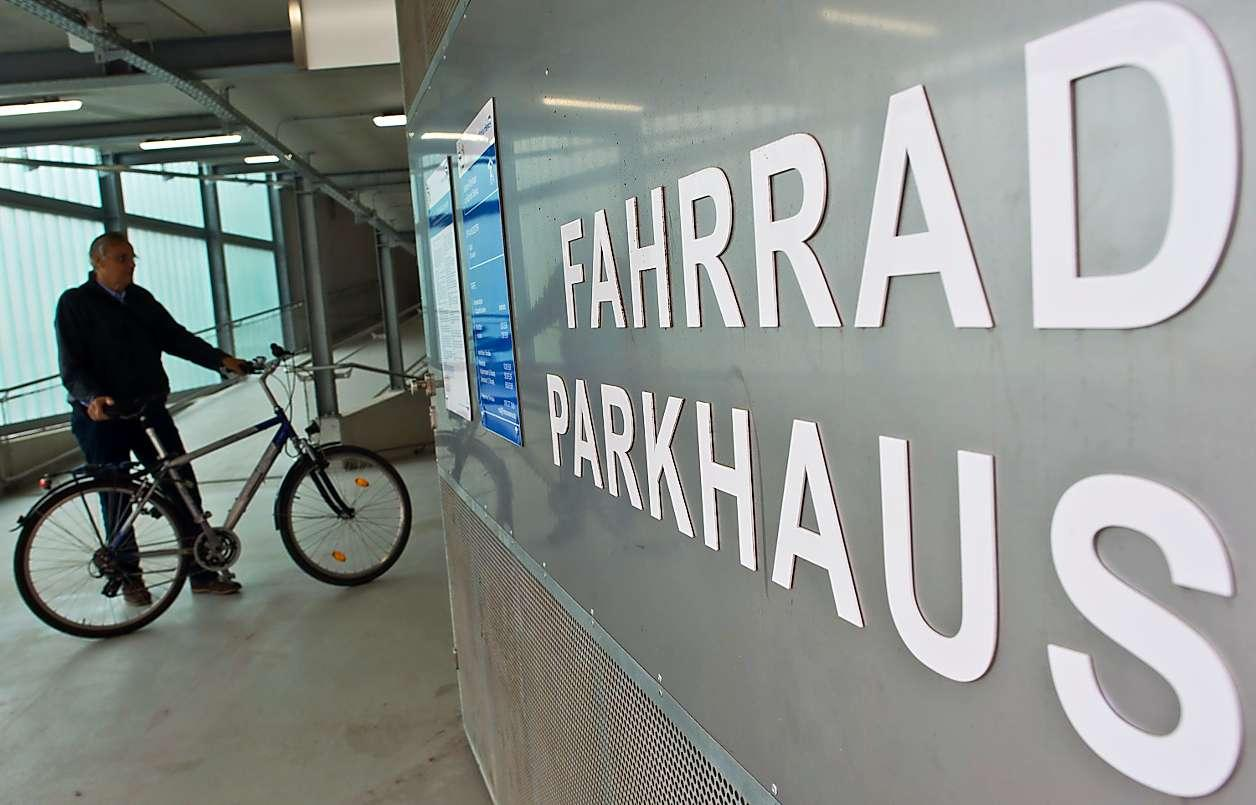
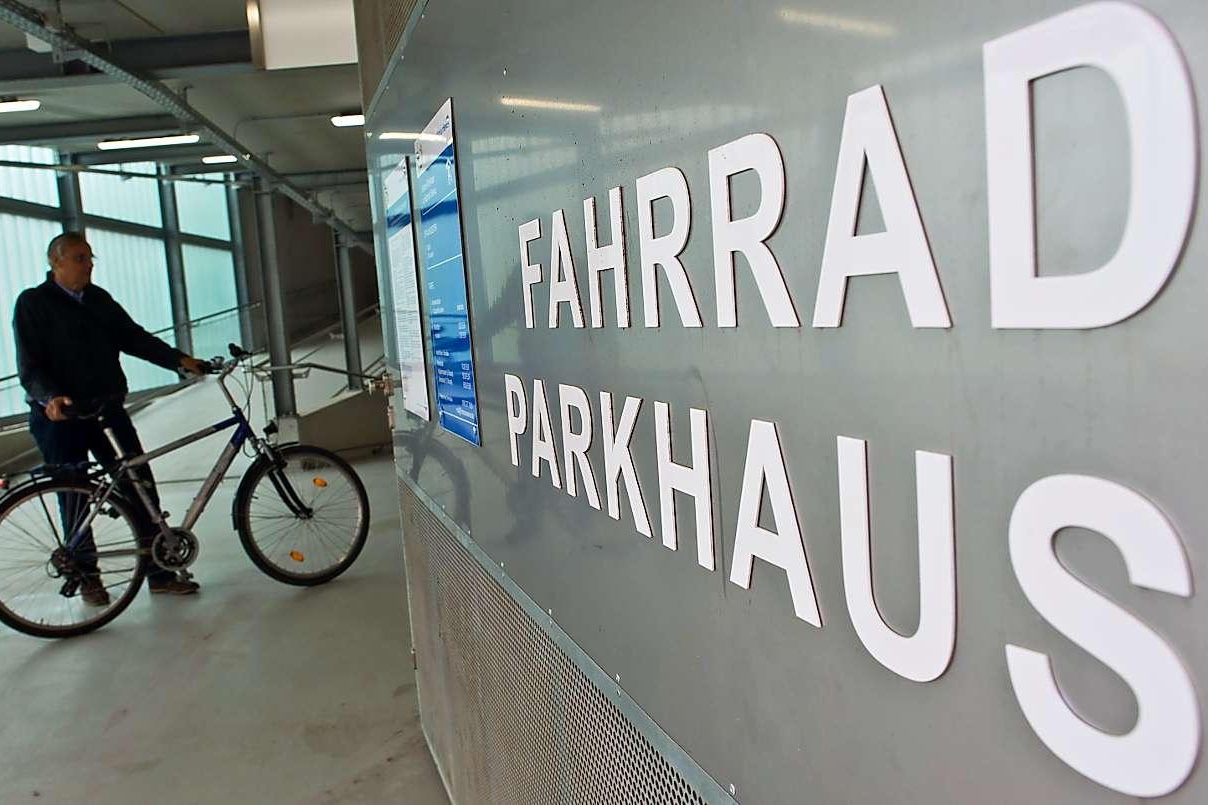
changed aspect ratio of bike parking pictures

diff --git a/css/main.css b/css/main.css
@@ -479,18 +479,10 @@ h5 {
 /* ++++++++++++++++++++++++++++++++++++++++++++++++++++++++++++++++++++++++++ */
 /* +++++++++++++++++++++BIKE THEFT CHART and PICTURES++++++++++++++++++++++++ */
 /* ++++++++++++++++++++++++++++++++++++++++++++++++++++++++++++++++++++++++++ */
-#bike-theft-diagram {
 
-}
-
-
-
-#bike-parking-pictuers img{
-
-height: 100%;
-width: 100%;
-display: block;
-
+#bike-parking-pictuers img {
+	width: 100%;
+	display: block;
 }
 
 /* ++++++++++++++++++++++++++++++++++++++++++++++++++++++++++++++++++++++++++ */
